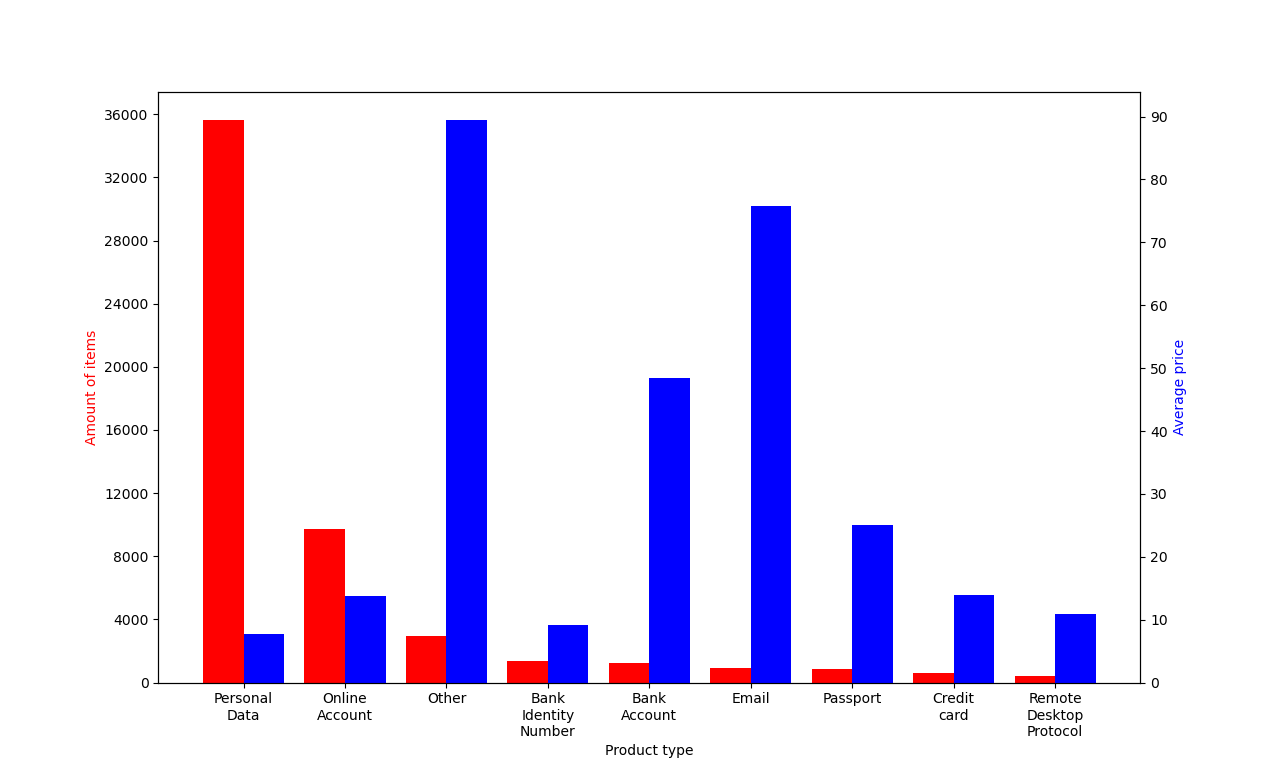
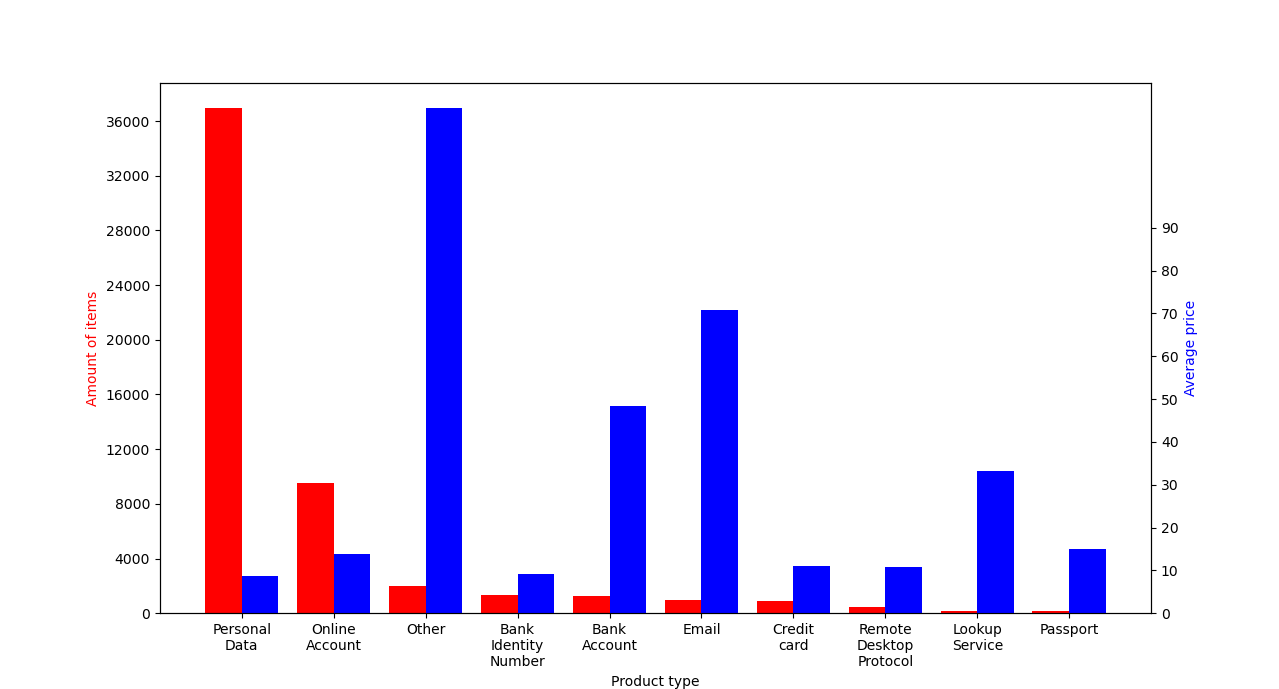
[result] first draft

diff --git a/report/tex/result.tex b/report/tex/result.tex
@@ -1,0 +1,55 @@
+In this section, I will provide logical explaination and statistical results,
+illustrated as figures or tables, to address research questions mentioned in
+\autoref{sec:research_questions}.
+
+\subsection{RQ1: What types of stolen information are traded?}
+As shown in \autoref{fig:type_allocation}, I captured in total 10 product types
+based on my own standard. Among all categories, \emph{Personal Data} is the
+most active field, contributing \(68,69\%\) of all traded items. \emph{Online Account}
+represents the second larges portion \(17,73\%\). The rest of product types ranges
+from \(0,36\%\) to \(3,64\%\). Detailed description of each product type is in
+\autoref{tab:category_description}.
+
+\begin{table}
+    \centering
+    \begin{tabular}{|c|c|}
+        \hline
+        Product type & Description\\
+        Personal Data & Full name, date of birth, social security number, home
+        address, zip code, driver license, employer info, etc.\\
+        Online Account & online account of services such as Netflix, Amazon,
+        Venmo, Booking.com, etc.\\
+        Bank Account & Username/password of online bank accounts, and credential
+        information linked to bank accounts.\\
+        Credit Card & card holder name, \acrshort{cvv}, full name, address,
+        bank name, card type.\\
+        Passport & Real photos and scan of passports.\\
+        Email & Emails leaked through data breaches.\\
+        Lookup Service & \acrshort{ssn}/\acrshort{dob}/\acrshort{mmn}/\acrshort{dl}
+        /\acrshort{cs} lookup service.\\
+        Bank Identity Number & \acrshort{bin} is the first 6 digits of the credit card (with
+        the help of this information you will understand what credit cards you need to
+        work with 3-D Secure VBV) 3-D Secure VBV is a protocol that is used as an
+        additional layer of security for online credit and debit cards, two-factor
+        user authentication.\\
+        Remote Desktop Protocol & The protocol provides user graphical interface to connect
+        to other computers over the network connection \cite{web:rdp_wiki}.\\
+        Other & Tutorials, digital document templates, document forms, domains, etc.\\
+        \hline
+    \end{tabular}
+    \caption{Description of product types.}\label{tab:category_description}
+\end{table}
+
+\subsection{RQ2: What are the prices for different product types?}
+
+\begin{figure}
+    \centering
+    \includegraphics[height=\textheight,width=\textwidth,keepaspectratio]
+    {plots/cate_prods_avg_price.png}
+    \caption{Number of products and average price over product types.}
+    \label{fig:cate_avg_prod}
+\end{figure}
+
+\subsection{RQ3: Where the stolen information is from?}
+
+\subsection{RQ4: What we can learn about the sellers?}

diff --git a/report/report.tex b/report/report.tex
@@ -8,7 +8,7 @@
 \usepackage{glossaries}
 \graphicspath{ {./figures/} }
 
-% reference package
+% reference-managing package
 \usepackage{biblatex}
 \addbibresource{references.bib}
 
@@ -29,8 +29,10 @@
 \printglossary{}
 
 \section{Abstract}\label{sec:abstract}
+\input{tex/abstract.tex}
 
 \section{Background}\label{sec:background}
+\input{tex/background.tex}
 
 \section{Research questions}\label{sec:research_questions}
 \input{tex/research_question.tex}
@@ -38,9 +40,11 @@
 \section{Methodology}\label{sec:method}
 \input{tex/methodology.tex}
 
-\section{Result}\label{sec:result}
+\section{Results}\label{sec:result}
+\input{tex/result.tex}
 
 \section{Conclusions}\label{sec:conclusion}
+\input{tex/conclusion.tex}
 
 \printbibliography{}
 

diff --git a/report/tex/glossary.tex b/report/tex/glossary.tex
@@ -5,3 +5,6 @@
 \newacronym{cs}{CS}{Credit Score}
 \newacronym{eu}{EU}{European Union}
 \newacronym{us}{US}{United States}
+\newacronym{bin}{BIN}{Bank Identity Number}
+\newacronym{cvv}{CVV}{Card Verification Value}
+\newacronym{vbv}{VBV}{Verified by Visa}
